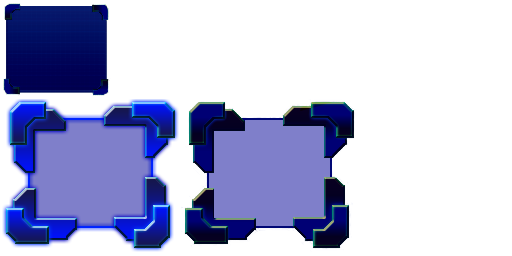
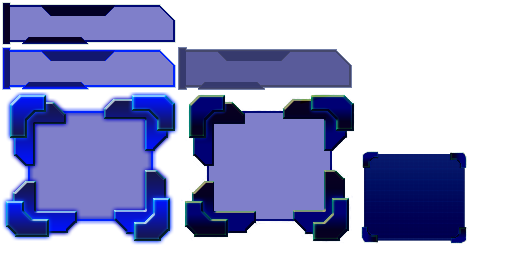
added get crystal button

diff --git a/graphic/src/com/silentgames/graphic/mvp/main/SilentPlanetPresenter.kt b/graphic/src/com/silentgames/graphic/mvp/main/SilentPlanetPresenter.kt
@@ -91,7 +91,7 @@ class SilentPlanetPresenter internal constructor(
         view.changePirateCristalCount(0)
         view.changeRobotCristalCount(0)
 
-        view.enableButton(false)
+        view.enableCrystalActionButton(false)
     }
 
     override fun onRender() {
@@ -114,7 +114,7 @@ class SilentPlanetPresenter internal constructor(
             if (entities.size > 1) {
                 val listToShow: MutableList<EntityEcs> = entities.toMutableList()
                 cellType?.let { listToShow.add(it) }
-                view.showEntityMenuDialog(listToShow.map())
+                showEntityInfo(listToShow)
             } else {
                 if (selectedEntity == null
                         && entities.isNotEmpty()) {
@@ -133,11 +133,10 @@ class SilentPlanetPresenter internal constructor(
 
             entity.getComponent<Position>()?.currentPosition?.let {
                 if (!crystalsOverZero(it)) {
-                    view.enableButton(false)
+                    view.enableCrystalActionButton(false)
                 }
             }
-
-            view.showEntityInfo(entity.toEntityData())
+            showEntityInfo(entity)
         }
     }
 
@@ -188,24 +187,24 @@ class SilentPlanetPresenter internal constructor(
     private fun updateEntityState(unit: UnitEcs) {
         val position = unit.getComponent<Position>()?.currentPosition
         if (position != null && crystalsOverZero(position)) {
-            view.enableButton(true)
+            view.enableCrystalActionButton(true)
         } else {
-            view.enableButton(false)
+            view.enableCrystalActionButton(false)
         }
-        view.showEntityInfo(unit.toEntityData())
+        showEntityInfo(unit)
     }
 
     private fun crystalsOverZero(position: Axis): Boolean =
             viewModel.engine.gameState.getCell(position)?.getComponent<Crystal>()?.count ?: 0 > 0
 
     private fun selectCell(cellType: EntityEcs) {
-        view.enableButton(false)
+        view.enableCrystalActionButton(false)
         viewModel.selectedEntity = null
-        view.showEntityInfo(cellType.toEntityData())
+        showEntityInfo(cellType)
     }
 
     private fun tryMove(unit: UnitEcs, targetPosition: Axis) {
-        view.enableButton(false)
+        view.enableCrystalActionButton(false)
         unit.addComponent(TargetPosition(targetPosition))
         if (!viewModel.engine.gameState.moveSuccess) {
             viewModel.selectedEntity = null
@@ -216,5 +215,18 @@ class SilentPlanetPresenter internal constructor(
     override fun saveInstanceState(onSave: (GameState) -> Unit) {
         viewModel.engine.stop()
         onSave(viewModel.engine.gameState)
+    }
+
+    private fun showEntityInfo(data: EntityEcs) {
+        showEntityInfo(listOf(data))
+    }
+
+    private fun showEntityInfo(dataList: List<EntityEcs>) {
+        if (dataList.size == 1 && dataList.first() is UnitEcs) {
+            view.changeBottomActionButtonVisibility(true)
+        } else {
+            view.changeBottomActionButtonVisibility(false)
+        }
+        view.showEntityMenuDialog(dataList.map())
     }
 }

diff --git a/graphic/src/com/silentgames/graphic/hud/Hud.kt b/graphic/src/com/silentgames/graphic/hud/Hud.kt
@@ -3,6 +3,7 @@ package com.silentgames.graphic.hud
 import com.badlogic.gdx.graphics.OrthographicCamera
 import com.badlogic.gdx.graphics.g2d.Sprite
 import com.badlogic.gdx.scenes.scene2d.Stage
+import com.badlogic.gdx.scenes.scene2d.ui.Cell
 import com.badlogic.gdx.scenes.scene2d.ui.ScrollPane
 import com.badlogic.gdx.scenes.scene2d.ui.Table
 import com.badlogic.gdx.utils.viewport.Viewport
@@ -43,6 +44,8 @@ class Hud(gameViewport: Viewport, private val assets: Assets) {
 
     private val topScorePanel = TopScorePanel(uiSkin)
 
+    private var bottomActionPanelCell: Cell<BottomActionPanel>? = null
+
     init {
         stage.addActor(
                 Table().apply {
@@ -52,6 +55,10 @@ class Hud(gameViewport: Viewport, private val assets: Assets) {
                     add(topScorePanel).growX()
                     row().grow()
                     add(ScrollPane(table))
+                    row().expandX()
+                    bottomActionPanelCell = add(BottomActionPanel(uiSkin)).apply {
+                        setVisibleSettings()
+                    }
                 })
         InputMultiplexer.addProcessor(stage)
     }
@@ -64,17 +71,38 @@ class Hud(gameViewport: Viewport, private val assets: Assets) {
         stage.batch.end()
     }
 
-    fun addWidget(entityData: EntityData) {
-        update(listOf(entityData)) {}
+    fun setBottomActionPanelVisibility(visible: Boolean) {
+        if (visible) {
+            bottomActionPanelCell?.setVisibleSettings()
+        } else {
+            bottomActionPanelCell?.setInvisibleSettings()
+        }
+    }
+
+    fun setCrystalActionButtonEnabled(enabled: Boolean) {
+        bottomActionPanelCell?.actor?.setCrystalActionButtonEnabled(enabled)
     }
 
     fun update(entityList: List<EntityData>, onClick: (EntityData) -> Unit) {
         table.clear()
         entityList.forEach { entityData ->
             table.row().growX()
-
             table.add(UnitWidget(assets, entityData, onClick)).growX()
         }
+    }
+
+    private fun Cell<BottomActionPanel>.setVisibleSettings() {
+        this.prefHeight(100f)?.growX()
+        this.actor.isVisible = true
+    }
+
+    private fun Cell<BottomActionPanel>.setInvisibleSettings() {
+        this.size(0f)
+        this.actor.isVisible = false
+    }
+
+    fun onGetCrystalClick(click: () -> Unit) {
+        bottomActionPanelCell?.actor?.onGetCrystalClick = click
     }
 
     fun changeFractionCrystalOnBoard(fractionsType: FractionsType, count: Int) {

diff --git a/graphic/src/com/silentgames/graphic/hud/BottomActionPanel.kt b/graphic/src/com/silentgames/graphic/hud/BottomActionPanel.kt
@@ -1,0 +1,39 @@
+package com.silentgames.graphic.hud
+
+import com.badlogic.gdx.scenes.scene2d.InputEvent
+import com.badlogic.gdx.scenes.scene2d.ui.Skin
+import com.badlogic.gdx.scenes.scene2d.ui.Table
+import com.badlogic.gdx.scenes.scene2d.ui.TextButton
+import com.badlogic.gdx.scenes.scene2d.utils.ClickListener
+import com.silentgames.core.Strings
+
+class BottomActionPanel(skin: Skin) : Table(skin) {
+
+    var onGetCrystalClick: (() -> Unit)? = null
+        set(value) {
+            addCaptureListener(object : ClickListener() {
+                override fun clicked(event: InputEvent?, x: Float, y: Float) {
+                    value?.invoke()
+                }
+            })
+            field = value
+        }
+
+    private val crystalActionButton = TextButton(
+            Strings.get_crystal_action.getString(),
+            skin,
+            "custom_button_dark"
+    ).also {
+        it.pad(20f)
+    }
+
+    init {
+        pad(10f, 10f, 10f, 10f)
+        add(crystalActionButton).grow()
+    }
+
+    fun setCrystalActionButtonEnabled(enabled: Boolean) {
+        crystalActionButton.isDisabled = !enabled
+    }
+
+}

diff --git a/graphic/src/com/silentgames/graphic/mvp/main/SilentPlanetGame.kt b/graphic/src/com/silentgames/graphic/mvp/main/SilentPlanetGame.kt
@@ -43,6 +43,10 @@ class SilentPlanetGame : ApplicationAdapter(), SilentPlanetContract.View {
         (camera as? OrthographicCamera)?.setToOrtho(true)
         camera.position.x = HEIGHT / 2f
         camera.position.y = HEIGHT / 2f
+
+        hud.onGetCrystalClick {
+            presenter.onActionButtonClick()
+        }
     }
 
     override fun render() {
@@ -77,14 +81,15 @@ class SilentPlanetGame : ApplicationAdapter(), SilentPlanetContract.View {
         const val HEIGHT = 480f
     }
 
-    override fun showEntityInfo(entity: EntityData) {
-        hud.addWidget(entity)
-    }
-
     override fun showToast(text: String) {
     }
 
-    override fun enableButton(isEnabled: Boolean) {
+    override fun enableCrystalActionButton(isEnabled: Boolean) {
+        hud.setCrystalActionButtonEnabled(isEnabled)
+    }
+
+    override fun changeBottomActionButtonVisibility(visible: Boolean) {
+        hud.setBottomActionPanelVisibility(visible)
     }
 
     override fun showEntityMenuDialog(dataList: MutableList<EntityData>) {

diff --git a/core/src/com/silentgames/core/Strings.kt b/core/src/com/silentgames/core/Strings.kt
@@ -62,7 +62,9 @@ enum class Strings(private var string: String) {
     human_ship_name("Пионер"),
     human_ship_description("Космический корабль землян"),
     alien_ship_name("Лиира"),
-    alien_ship_description("Космический корабль загадочной рассы");
+    alien_ship_description("Космический корабль загадочной рассы"),
+
+    get_crystal_action("Взять кристал");
 
     fun getString(vararg args: Any?): String = String.format(string, *args)
 

diff --git a/graphic/src/com/silentgames/graphic/mvp/main/SilentPlanetContract.kt b/graphic/src/com/silentgames/graphic/mvp/main/SilentPlanetContract.kt
@@ -9,9 +9,9 @@ interface SilentPlanetContract {
 
         fun showToast(text: String)
 
-        fun showEntityInfo(entity: EntityData)
+        fun enableCrystalActionButton(isEnabled: Boolean)
 
-        fun enableButton(isEnabled: Boolean)
+        fun changeBottomActionButtonVisibility(visible: Boolean)
 
         fun showEntityMenuDialog(dataList: MutableList<EntityData>)
 
